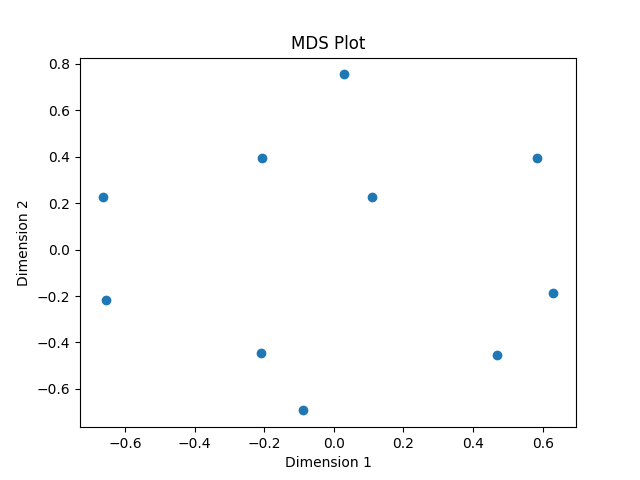
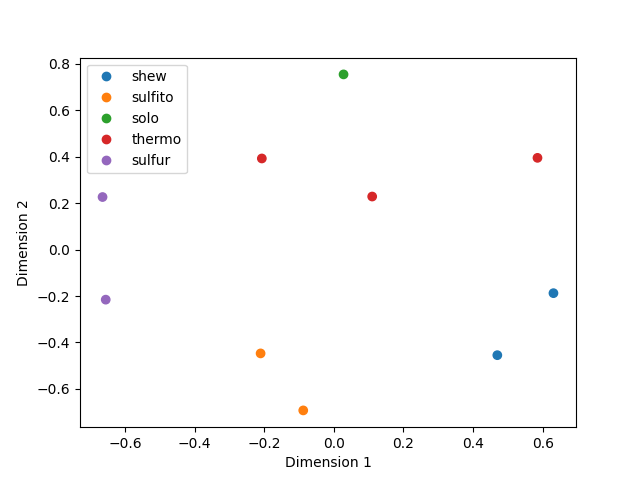
add legend

diff --git a/src/sourmash_plugin_betterplot.py b/src/sourmash_plugin_betterplot.py
@@ -20,6 +20,7 @@ import scipy.cluster.hierarchy as sch
 from sklearn.manifold import MDS
 import matplotlib.pyplot as plt
 from scipy.sparse import lil_matrix, csr_matrix
+from matplotlib.lines import Line2D
 
 from collections import defaultdict
 
@@ -43,6 +44,7 @@ def load_categories_csv(filename, labelinfo):
         categories = list(r)
 
     category_map = {}
+    colors = None
     if categories:
         assert labelinfo
         keys = set(categories[0].keys())
@@ -66,11 +68,19 @@ def load_categories_csv(filename, labelinfo):
             for row in categories:
                 category_map2[row[key]] = category_map[row['category']]
 
+#            from pprint import pprint
+#            pprint(category_map2)
+
             colors = []
             for row in labelinfo:
                 value = row[key]
                 color = category_map2[value]
                 colors.append(color)
+
+        else:
+            notify(f"no valid key column found in categories file '{filename}'.")
+    else:
+        notify(f"nothing in categories file '{filename}'?!")
         
     return category_map, colors
 
@@ -332,19 +342,21 @@ class Command_MDS(CommandLinePlugin):
         categories_map = None
         colors = None
         if args.categories_csv:
-            categories_map, colors = load_categories_csv(args.categories_csv,
-                                                         labelinfo)
+            category_map, colors = load_categories_csv(args.categories_csv,
+                                                       labelinfo)
 
         # Example usage
         # Assume object indices instead of names for simplicity
         #similarity_tuples = [(0, 1, 0.7), (0, 2, 0.4), (1, 2, 0.5)]
         #num_objects = 3  # You should know the total number of objects
         #sparse_matrix = create_sparse_similarity_matrix(similarity_tuples, num_objects)
-        plot_mds_sparse(mat, labelinfo, colors=colors)
+        plot_mds_sparse(mat, labelinfo, colors=colors,
+                        category_map=category_map)
 
         plt.savefig(args.output_figure)
 
 
+# @CTB unused for now
 def create_sparse_similarity_matrix(tuples, num_objects):
     # Initialize matrix in LIL format for efficient setup
     similarity_matrix = lil_matrix((num_objects, num_objects))
@@ -361,7 +373,7 @@ def create_sparse_similarity_matrix(tuples, num_objects):
     return similarity_matrix.tocsr()
 
 
-def plot_mds_sparse(matrix, labelinfo, *, colors=None):
+def plot_mds_sparse(matrix, labelinfo, *, colors=None, category_map=None):
     # Convert sparse similarity to dense dissimilarity matrix
     #dissimilarities = 1 - matrix.toarray()
     dissimilarities = 1 - matrix
@@ -369,6 +381,12 @@ def plot_mds_sparse(matrix, labelinfo, *, colors=None):
     mds = MDS(n_components=2, dissimilarity='precomputed', random_state=42)
     mds_coords = mds.fit_transform(dissimilarities)
     plt.scatter(mds_coords[:, 0], mds_coords[:, 1], color=colors)
-    plt.title('MDS Plot')
     plt.xlabel('Dimension 1')
     plt.ylabel('Dimension 2')
+
+    # create a custom legend of just the categories
+    legend_elements = []
+    for k, v in category_map.items():
+        legend_elements.append(Line2D([0], [0], color=v, label=k,
+                                      marker='o', lw=0))
+    plt.legend(handles=legend_elements)

diff --git a/README.md b/README.md
@@ -108,7 +108,9 @@ sourmash compare sketches/{2,47,48,49,51,52,53,59,60}.sig.zip \
     -o 10sketches.cmp \
     --labels-to 10sketches.cmp.labels_to.csv
 
-sourmash scripts mds 10sketches.cmp -o mds.10sketches.cmp.png
+sourmash scripts mds 10sketches.cmp 10sketches.cmp.labels_to.csv \
+    -o mds.10sketches.cmp.png \
+    -C 10sketches-categories.csv
 ```
 
 produces this plot:
